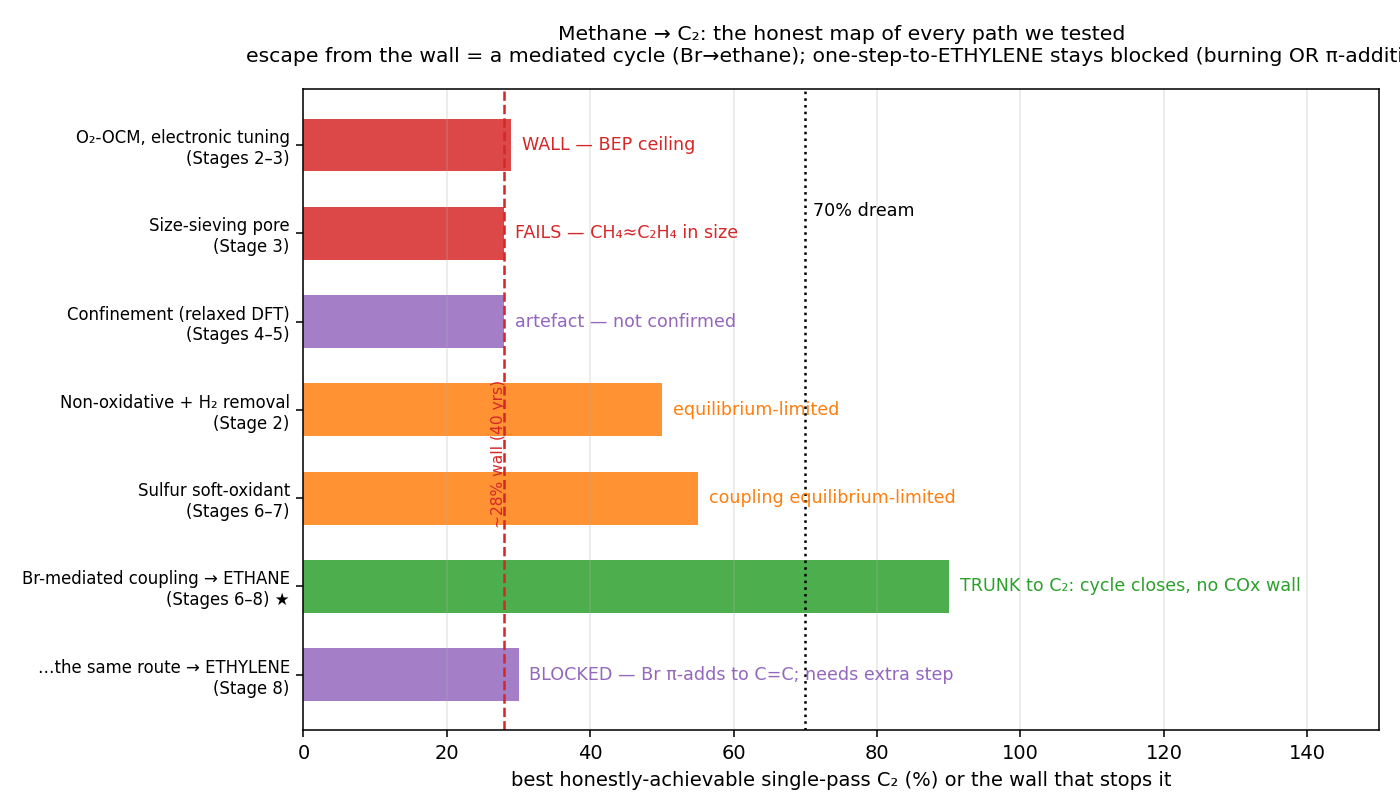
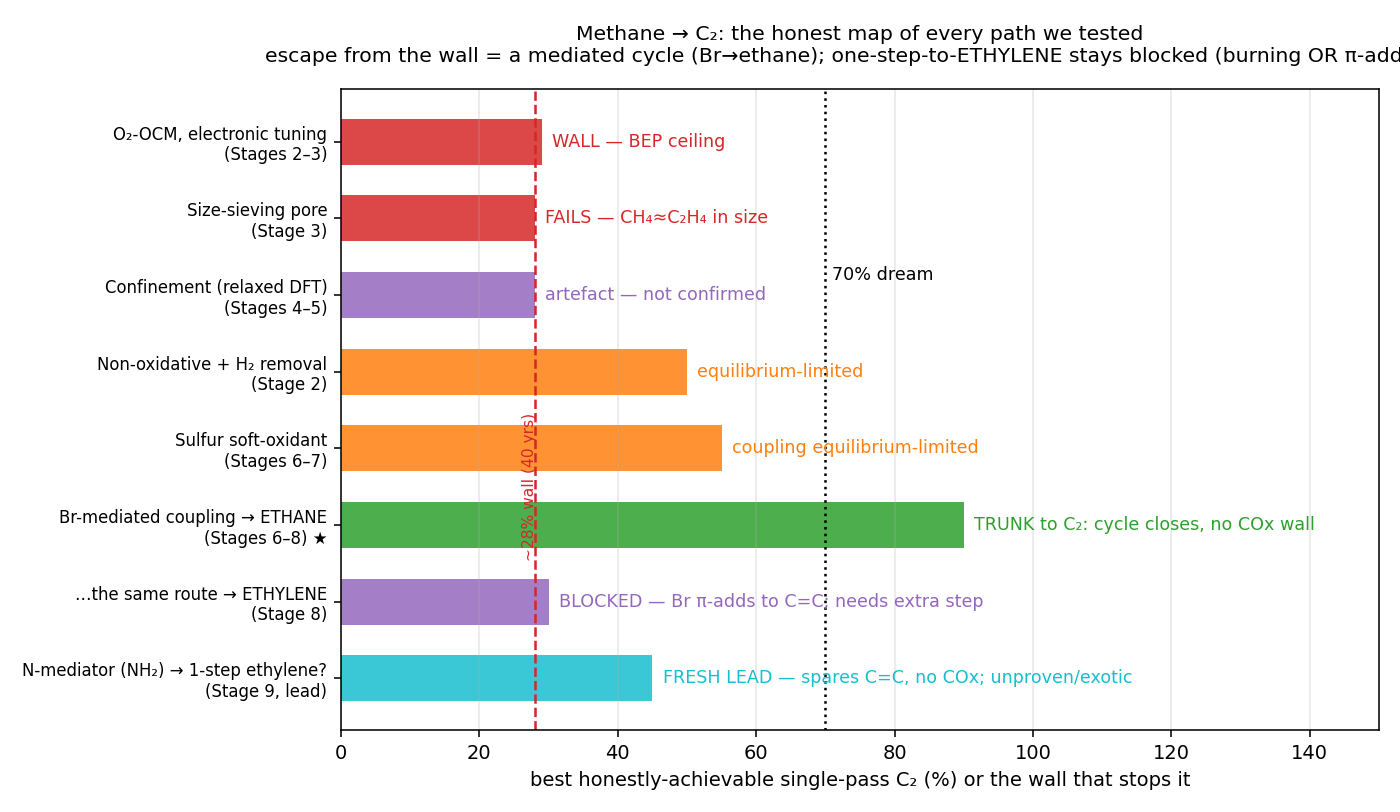
Stages 9-10: mediator hunt (N/O radicals spare ethylene; NH2 lead) + capstone verdict
Nitrogen-centred mediation is a fresh computable hypothesis for one-step ethylene
(spares the C=C, no COx). Capstone: bromine->ethane is the computable trunk that
breaks the C2 wall; one-step ethylene remains the frontier with NH2 as the lead.

diff --git a/entries.js b/entries.js
@@ -590,6 +590,157 @@ const ENTRIES = [
         caption: { ru: "π-присоединение (красное) разрушает этилен у Cl/Br/S; винильный HAT (синее, +9) — не тот канал; OH этилен щадит.",
                    en: "π-addition (red) destroys ethylene for Cl/Br/S; vinylic HAT (blue, +9) is the wrong channel; OH spares ethylene." } }
     ]
+  },
+
+  /* ---------------------------------------------------------------- */
+  {
+    id: "hunt",
+    date: "2026-06-06",
+    stage: { ru: "Этап 9", en: "Stage 9" },
+    title: { ru: "Охота на медиатор: кто активирует метан, но щадит этилен?",
+             en: "The mediator hunt: who activates methane yet spares ethylene?" },
+    simple: {
+      ru: `<p>Святой Грааль одного шага: радикал-«партнёр», который <em>отнимает водород у метана</em>
+           (чтобы запустить сочетание), но <strong>НЕ трогает двойную связь этилена</strong> (чтобы не
+           разрушить продукт). Прогнали кислородные/азотные/фторные радикалы.</p>
+           <p>Галогены, сера, фтор — все <strong>едят</strong> двойную связь. Но <strong>N/O-радикалы
+           (NH₂, OH, CF₃) её ЩАДЯТ!</strong> Звезда — <strong>NH₂</strong> (азотный радикал): активирует
+           метан <em>и</em> щадит этилен, и (в отличие от кислорода) у него нет пути «сгорания в CO₂».</p>
+           <p>→ <strong>Азот-медиаторный путь — свежая вычисляемая гипотеза для одного шага.</strong>
+           Честные оговорки: NH₂ активирует метан лишь слабо (медленно); азот-радикальные медиаторы и их
+           рецикл — экзотика, неизучено; кислород (OH) щадит π-связь, но жжёт продукт <em>другими</em>
+           путями (та самая COx-стена). Это <strong>лид, а не решение</strong> — новое направление,
+           которое движок нащупал сам.</p>`,
+      en: `<p>The holy grail of the one-step route: a "partner" radical that <em>takes a hydrogen from
+           methane</em> (to start coupling) but <strong>does NOT touch ethylene's double bond</strong>
+           (so it won't destroy the product). We screened oxygen/nitrogen/fluorine radicals.</p>
+           <p>Halogens, sulfur, fluorine all <strong>eat</strong> the double bond. But <strong>N/O
+           radicals (NH₂, OH, CF₃) SPARE it!</strong> The standout is <strong>NH₂</strong> (a nitrogen
+           radical): it activates methane <em>and</em> spares ethylene, and (unlike oxygen) has no
+           "burn-to-CO₂" path.</p>
+           <p>→ <strong>A nitrogen-mediated route is a fresh, computable hypothesis for the one-step
+           goal.</strong> Honest caveats: NH₂ activates methane only weakly (slow); nitrogen-radical
+           mediators and their recycle are exotic/unexplored; oxygen (OH) spares the π-bond but burns the
+           product by <em>other</em> paths (the COx wall). This is a <strong>lead, not a solution</strong>
+           — a new direction the engine surfaced on its own.</p>`
+    },
+    tech: {
+      ru: `<p>Энергии реакций (def2-SVP, опт. минимумы). Зона-энэйблер (активация &lt;~3 И ddH_π&gt;0):
+           <strong>OH</strong> (−8.4, +1.7), <strong>NH₂</strong> (−0.8, +1.4), <strong>CF₃</strong>
+           (+2.1, +2.6). Едят этилен (ddH_π&lt;0): Cl (−31.3), Br (−19.5), SH (−19.6), F (−1.3), OOH (−0.2).
+           CH₃O — на грани (0.0).</p>
+           <p><strong>Лид — NH₂:</strong> единственный с благоприятной активацией метана, щадящий π-связь,
+           и БЕЗ кислорода → нет COx-пути глубокого окисления. OH тоже щадит π, но O жжёт C₂ другими путями
+           (COx-стена — не ловится одним π-дескриптором). CF₃ щадит, но активация вверх (медленно). F
+           слишком агрессивен.</p>
+           <p><strong>Гипотеза (свежая, вычисляемая):</strong> азот-центрированная радикальная медиация
+           для метан→этилен в один шаг. Нужно проверить TS-уровнем (явные барьеры), продумать источник/
+           рецикл NH₂-медиатора, и убедиться в отсутствии N-специфичного переокисления. <em>Оговорка:</em>
+           прокси по энергиям реакций; знаки/тренды надёжны, абсолюты — нет.</p>`,
+      en: `<p>Reaction energies (def2-SVP, optimized minima). Enabler zone (activation &lt;~3 AND ddH_π&gt;0):
+           <strong>OH</strong> (−8.4, +1.7), <strong>NH₂</strong> (−0.8, +1.4), <strong>CF₃</strong>
+           (+2.1, +2.6). Eat ethylene (ddH_π&lt;0): Cl (−31.3), Br (−19.5), SH (−19.6), F (−1.3), OOH (−0.2).
+           CH₃O is borderline (0.0).</p>
+           <p><strong>The lead — NH₂:</strong> the only one with favourable methane activation that spares
+           the π-bond AND has no oxygen → no COx deep-oxidation path. OH also spares π, but O burns C₂ by
+           other paths (the COx wall — not captured by a single π descriptor). CF₃ spares but activation is
+           uphill (slow). F is too aggressive.</p>
+           <p><strong>Hypothesis (fresh, computable):</strong> nitrogen-centred radical mediation for
+           methane→ethylene in one step. Needs TS-level verification (explicit barriers), a source/recycle
+           for the NH₂ mediator, and a check for N-specific over-oxidation. <em>Caveat:</em> reaction-energy
+           proxy; signs/trends robust, absolutes not.</p>`
+    },
+    table: {
+      title: { ru: "Карта медиаторов (ккал/моль)", en: "Mediator map (kcal/mol)" },
+      head: { ru: ["медиатор", "активация CH₄", "щадит этилен (ddH_π)", "зона"],
+              en: ["mediator", "CH₄ activation", "spares ethylene (ddH_π)", "zone"] },
+      rows: [
+        ["★ NH₂• (азот/nitrogen)", "−0.8", "+1.4", "ЭНЭЙБЛЕР / ENABLER (no COx)"],
+        ["OH• (кислород/oxygen)", "−8.4", "+1.7", "щадит π, но COx-стена / spares π but COx wall"],
+        ["CF₃•", "+2.1", "+2.6", "щадит, активация вверх / spares, slow"],
+        ["Cl / Br / SH", "плохо/poor", "−20…−31", "ЕДЯТ / EAT C=C"],
+        ["F•", "−21.3", "−1.3", "агрессивен, ест / aggressive, eats"]
+      ]
+    },
+    figures: [
+      { src: "assets/mediator_map.png",
+        caption: { ru: "Карта медиаторов: верх-лево = активирует CH₄ + щадит C₂H₄ (зона одного шага). NH₂/OH/CF₃ щадят, галогены/S/F едят. NH₂ — настоящий лид (без COx).",
+                   en: "Mediator map: upper-left = activates CH₄ + spares C₂H₄ (one-step zone). NH₂/OH/CF₃ spare, halogens/S/F eat. NH₂ is the genuine lead (no COx)." } }
+    ]
+  },
+
+  /* ---------------------------------------------------------------- */
+  {
+    id: "verdict",
+    date: "2026-06-06",
+    stage: { ru: "Этап 10", en: "Stage 10" },
+    title: { ru: "Честный вердикт: карта всех путей и где магистраль",
+             en: "The honest verdict: the map of every path, and where the trunk is" },
+    simple: {
+      ru: `<p>Весь путь на одной картинке. Мечта была: метан → этилен в ОДИН шаг при 70%. Честный итог:</p>
+           <ul>
+             <li><strong>O₂-OCM (28% стена), электроника, сито, конфайнмент — стену НЕ ломают</strong>
+                 (артефакты мы ловили контролями).</li>
+             <li><strong>Революционный выход из C₂-стены — медиаторный цикл:</strong> бром соединяет метан
+                 в <em>этан</em>, обходит «сгорание» и сам регенерируется (магистраль).</li>
+             <li><strong>Но один шаг именно до ЭТИЛЕНА всё ещё заблокирован</strong> (O₂ — сгорание;
+                 медиаторы — атака двойной связи). Этилен = бром→этан + отдельное дегидрирование (два шага).</li>
+             <li><strong>Свежий лид для одного шага:</strong> азот-медиатор (NH₂-тип), который щадит двойную
+                 связь — новое, вычисляемое, но непроверенное направление.</li>
+           </ul>
+           <p><strong>Итог честно:</strong> вычисляемая революционная магистраль <em>есть</em> (бром→этан,
+           обходит 40-летнюю стену); «один шаг до этилена при 70%» остаётся фронтиром — но теперь с
+           конкретным новым направлением (азот-медиаторы), которое стоит копать.</p>`,
+      en: `<p>The whole journey in one picture. The dream was methane → ethylene in ONE step at 70%. The
+           honest verdict:</p>
+           <ul>
+             <li><strong>O₂-OCM (28% wall), electronics, sieving, confinement — do NOT break the wall</strong>
+                 (we caught the artefacts with controls).</li>
+             <li><strong>The revolutionary escape from the C₂ wall is a mediated cycle:</strong> bromine
+                 couples methane to <em>ethane</em>, routes around the burning wall, and self-regenerates
+                 (the trunk).</li>
+             <li><strong>But one step to ETHYLENE specifically is still blocked</strong> (O₂ — burning;
+                 mediators — double-bond attack). Ethylene = bromine→ethane + a separate dehydrogenation
+                 (two steps).</li>
+             <li><strong>A fresh lead for the one-step goal:</strong> a nitrogen mediator (NH₂-type) that
+                 spares the double bond — a new, computable, but unproven direction.</li>
+           </ul>
+           <p><strong>Honest bottom line:</strong> a computable revolutionary trunk <em>exists</em>
+           (bromine→ethane, escapes the 40-year wall); "one step to ethylene at 70%" remains the frontier —
+           but now with a concrete new direction (nitrogen mediators) worth chasing.</p>`
+    },
+    tech: {
+      ru: `<p>Сводка по всем путям (лучший честно-достижимый выход за проход / стена, что его держит):
+           электроника ~29% (BEP-стена); сито ~28% (CH₄≈C₂H₄ по размеру); конфайнмент — артефакт (не
+           подтверждён контролем на def2-SVP); неокислительный ~50% (равновесие); сера ~55%
+           (сшивка-равновесие); <strong>бром-медиатор → этан: цикл замыкается (Дикон −74), COx-стены нет
+           (магистраль)</strong>; тот же путь → этилен — блок π-присоединением; <strong>NH₂-медиатор —
+           лид для одного шага</strong> (щадит π, без COx; не доказан).</p>
+           <p>Все числа — из реальных расчётов в репозитории (термодинамика NIST + газофазная квант-химия
+           CASCI/UKS), с гейтами честности и контролями (дальний воротник, парность, сходимость; артефакты
+           помечены/отброшены). Квантового превосходства не заявляется. Запуски на AWS, суммарно ~$3.</p>
+           <p><strong>Следующий настоящий расчёт:</strong> TS-уровень для NH₂-медиации (явные барьеры
+           активации/π-щадения) + источник и рецикл азот-медиатора + проверка N-переокисления; параллельно
+           — кинетика сшивки vs ре-бромирования для бром→этан (концентрационная селективность).</p>`,
+      en: `<p>Summary across all paths (best honestly-achievable single-pass yield / the wall that stops
+           it): electronics ~29% (BEP wall); sieving ~28% (CH₄≈C₂H₄ in size); confinement — artefact (not
+           confirmed by the def2-SVP control); non-oxidative ~50% (equilibrium); sulfur ~55%
+           (coupling-equilibrium); <strong>bromine mediator → ethane: cycle closes (Deacon −74), no COx wall
+           (the trunk)</strong>; the same route → ethylene is blocked by π-addition; <strong>NH₂ mediator —
+           the lead for the one-step goal</strong> (spares π, no COx; unproven).</p>
+           <p>Every number comes from a real computation in the repo (NIST thermodynamics + gas-phase
+           quantum chemistry CASCI/UKS), with honesty gates and controls (far-collar, parity, convergence;
+           artefacts flagged/discarded). No quantum advantage is claimed. Runs on AWS, ~$3 total.</p>
+           <p><strong>The next real calculation:</strong> TS-level study of NH₂ mediation (explicit
+           activation / π-sparing barriers) + a source and recycle for the nitrogen mediator + a check for
+           N-over-oxidation; in parallel, the kinetics of coupling vs re-bromination for bromine→ethane
+           (concentration-driven selectivity).</p>`
+    },
+    figures: [
+      { src: "assets/synthesis_map.png",
+        caption: { ru: "Честная карта всех путей: стену ломает медиаторный цикл (бром→этан); один шаг до этилена пока заблокирован; азот-медиатор (NH₂) — свежий лид.",
+                   en: "The honest map of every path: the wall is broken by a mediated cycle (bromine→ethane); one-step ethylene is still blocked; the nitrogen mediator (NH₂) is the fresh lead." } }
+    ]
   }
 ];
 
